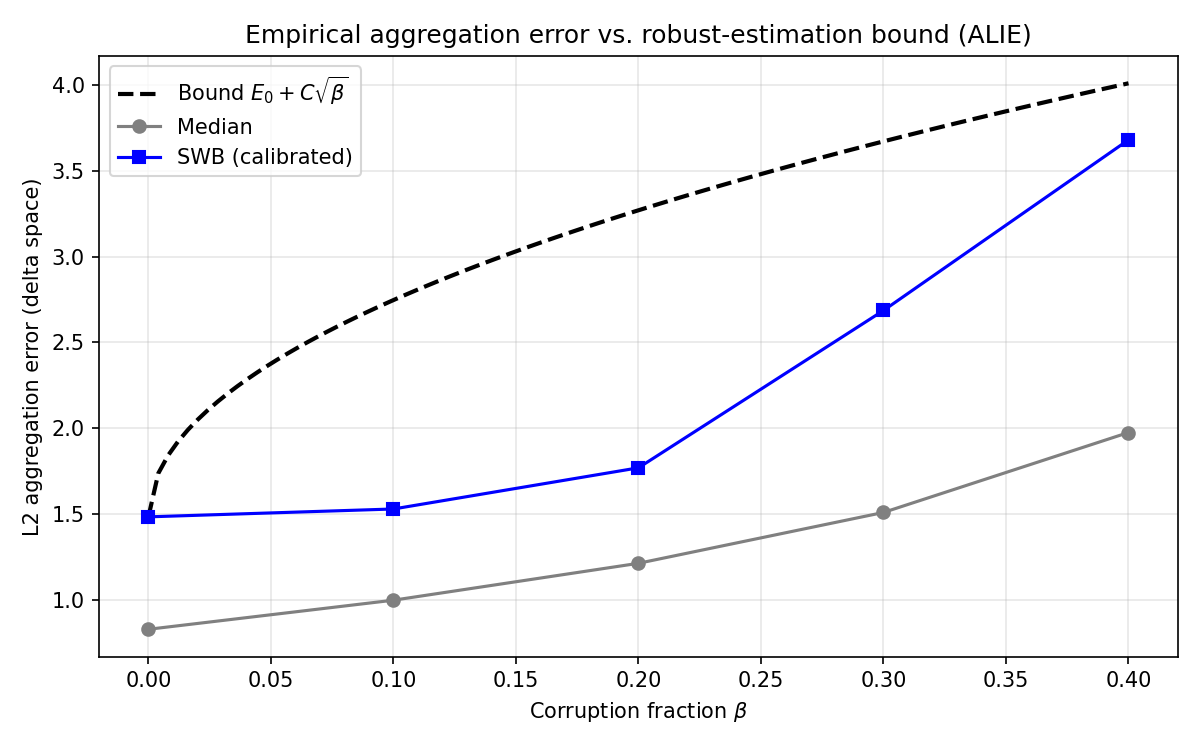
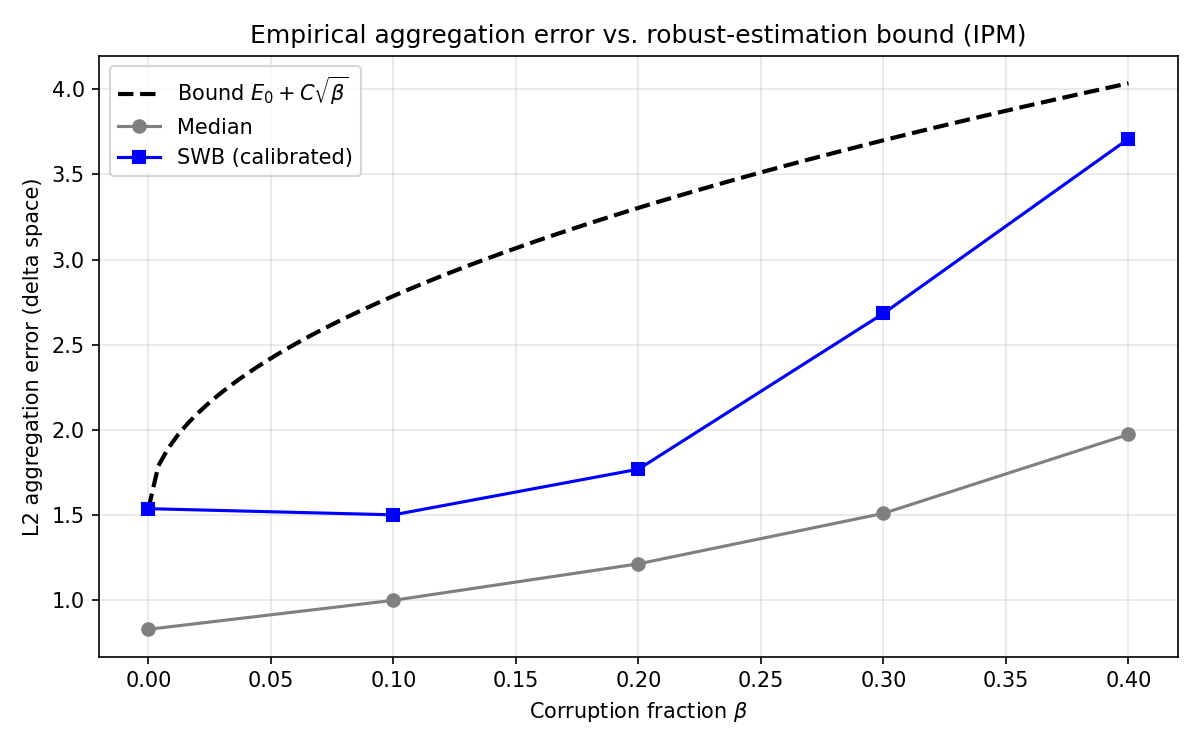
Fixed therory bound adaptive file

diff --git a/theory_bound_adaptive_attacks.py b/theory_bound_adaptive_attacks.py
@@ -45,7 +45,7 @@ if __name__ == "__main__":
     plt.plot(betas, med_errs, "o-", color="gray", label="Median")
     plt.plot(betas, swb_errs, "s-", color="blue", label="SWB (calibrated)")
     plt.xlabel(r"Corruption fraction $\beta$"); plt.ylabel("L2 aggregation error (delta space)")
-    plt.title("Empirical aggregation error vs. robust-estimation bound (ALIE)")
+    plt.title("Empirical aggregation error vs. robust-estimation bound (IPM)")    
     plt.legend(); plt.grid(alpha=0.3); plt.tight_layout()
     plt.savefig("theory_bound_adaptive_attacks.png", dpi=150)
     print("Saved theory_bound_adaptive_attacks.png")
